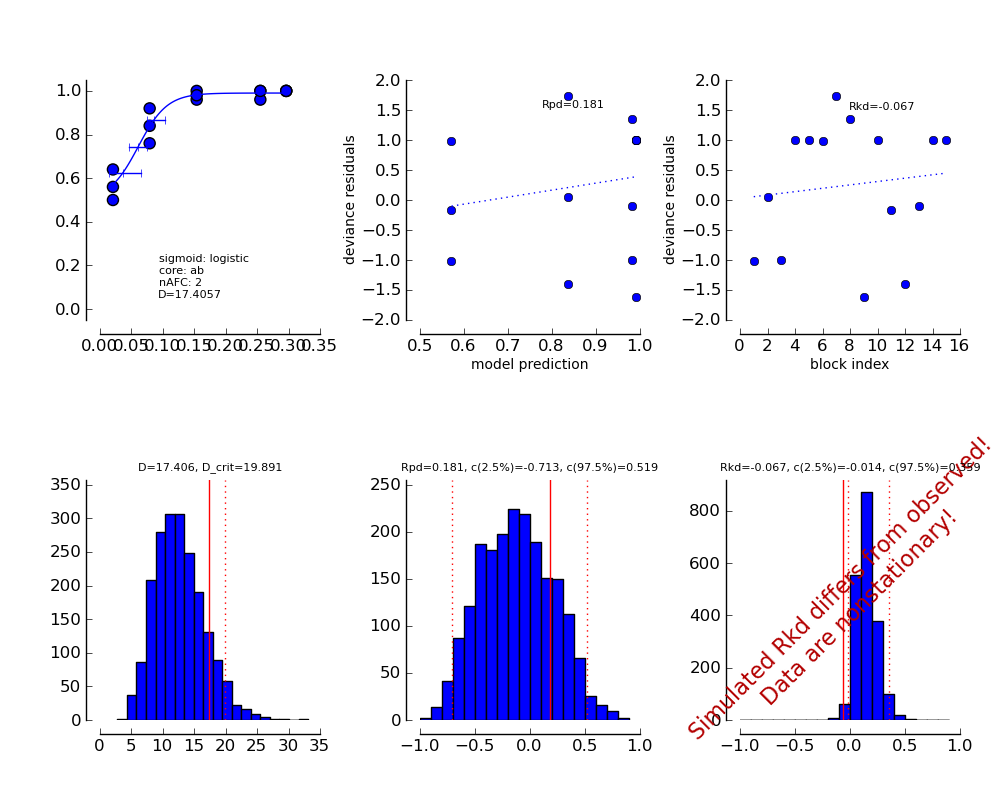
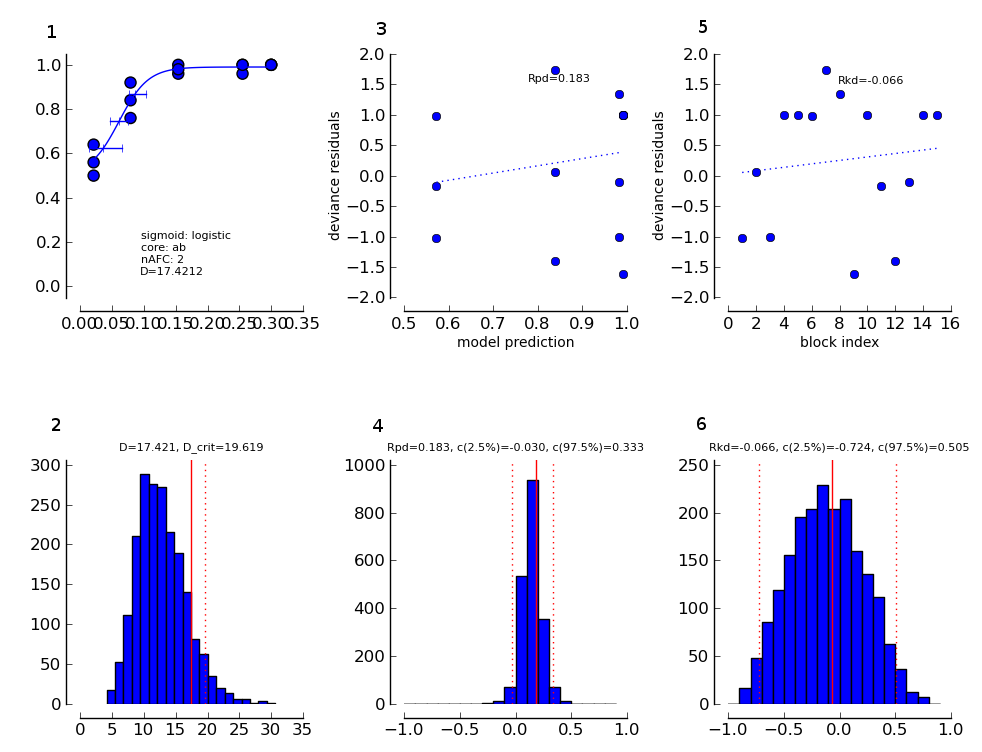
[DOC] bootstrap tutorial

diff --git a/doc-src/TUTORIAL_BOOTSTRAP.rst b/doc-src/TUTORIAL_BOOTSTRAP.rst
@@ -1,0 +1,252 @@
+============================
+A quick start to pypsignifit
+============================
+
+This document presents two example analyses of psychometric data using pypsignifit.
+:ref:`Example 1 <Example 1>` explains how to fit a psychometric function using constrained maximum
+likelihood as described in the papers by [Wichmann_and_Hill_2001a]_, [Wichmann_and_Hill_2001b]_. 
+:ref:`Example 2 <Example 2>` explains how to fit a psychometric function using a bayesian approach. Parts of 
+the ideas that are implemented here can be found in the paper by [Kuss_et_al_2005]_, the rest was new at the time of this writing.
+
+
+Getting started
+===============
+To get you started with pypsignifit, open a python interpreter and type the following:
+
+>>> import pypsignifit as psi
+>>> dir(psi)
+['BayesInference', 'BootstrapInference', 'ConvergenceMCMC', 'GoodnessOfFit', 'ParameterPlot', 'ThresholdPlot', '__builtins__', '__doc__', '__docformat__', '__file__', '__name__', '__package__', '__path__', '__test__', '__version__', 'interface', 'plotInfluential', 'plotMultiplePMFs', 'plotSensitivity', 'psignidata', 'psignierrors', 'psigniplot', 'pygibbsit', 'set_seed', 'show', 'subprocess', 'sys', 'version']
+
+With the first command you import the complete functionality of the python module pypsignifit to your current workspace. Dir( module name ) provides you with a list of functions and data types that come with pypsignifit.
+To get help and documentation about one of these functions, you can use the online python help by typing
+help ( function name ). For instance,
+
+>>> help ( psi.BayesInference )
+
+will show you the documentation of the BayesInference object class.
+
+
+Experimental scenario and data format
+=====================================
+The data that will be used in the following tutorials have been gathered in a 2-alternative forced-choice discrimination experiment. Observers had to discriminate between two stimultaneously presented stimuli. One of them  was the original (standard) and the other one was a comparison of five different stimulus intensities which were all larger than the standard. Different comparison intensities were presented in different experimental blocks (num_of_block = 5). One block contained 50 trials (num_of_trials = 50), 25 of which contained the original and the other 25 contained one of the five different stimulus intensities. Data for all stimulus intensities were repeatedly gathered in three sessions (num_of_sess = 3). Different experimental designs are described in detail in the section `specifying your experimental design <http://psignifit.sourceforge.net/MODELSPECIFICATION.html#specifiing-the-experimental-design>`_.
+
+We will now create our example data set for which we want to estimate a psychometric function. The data format should be a numpy array consisting of the following three columns: stimulus intensities, relative/absolute frequencies of correct (or 'yes') responses, number of observations per stimulus intensity:
+
+    >>> import numpy as np # numpy module required
+    >>> num_of_sess   = 3  # experimental parameters
+    >>> num_of_block  = 5
+    >>> num_of_trials = 50
+    >>> stimulus_intensities = [0.021, 0.079, 0.154, 0.255,  0.30] # stimulus levels
+    >>> percent_correct_1    = [0.5 ,  0.84,  0.96,  1.,   1.]     # percent correct sessions 1-3
+    >>> percent_correct_2    = [0.64,  0.92,  1.  ,  0.96, 1.]
+    >>> percent_correct_3    = [0.58,  0.76,  0.98,  1.,   1.]
+    >>> num_observations     = [num_of_trials] * num_of_block      # observations per block
+    >>> data_1 = np.c_[stimulus_intensities, percent_correct_1, num_observations]
+    >>> data_2 = np.c_[stimulus_intensities, percent_correct_2, num_observations]
+    >>> data_3 = np.c_[stimulus_intensities, percent_correct_3, num_observations]
+    >>> data_single_sessions = np.r_[ data_1, data_2, data_3 ]       # concatenate data from all sessions
+
+Numpy arrays data_1, data_2, data_3 summarize data from each session with each line representing a single experimental block. It is assumed that data are entered in the same sequence in which they have been acquired (often in ascending stimulus intensity as in classical signal detection tasks [Blackwell_1952]_). The last line of the code concatenates data from single sessions into a single numpy array. Again, the information about the sequence of acquisition is coded by the ordering of blocks (rows) and it will be used for the assessment of stability of performance in the :ref:`goodness of fit diagnostics <goodness_of_fit>`.
+
+
+.. _Example 1:
+
+Example 1: Constrained Maximum Likelihood and Bootstrap Inference
+=================================================================
+
+We will guide you through a recommended workflow, consisting of:
+
+* psychometric function fitting and parameter estimation
+* assessment of goodness of fit
+* sensitivity analysis for potential correction of confidence intervals (!! required for smaller datasets)
+
+
+Fitting
+-------
+Constrained maximum likelihood provides a way to estimate parameters from a psychometric function
+using maximum likelihood estimation while imposing constraints on some of the parameters.
+
+Parameters:
+
+* :math:`\gamma` is the guessing rate, or the lower asymptote
+* :math:`\lambda` is the lapsing rate, or the upper asymptote
+* :math:`a` and :math:`b` are parameters governing the shape of the sigmoid function and can be transformed into threshold and slope
+* :math:`F` is a sigmoid function. Here we try to fit the data to a logistic function which is the default setting. 
+
+For more information on different psychometric functions see `specifying the shape of the psychometric function <http://psignifit.sourceforge.net/MODELSPECIFICATION.html#specifiing-the-shape-of-the-psychometric-function>`_. 
+
+For a 2AFC task, the guessing rate is fixed at :math:`\gamma=0.5`. Thus, our model has three free parameters:
+:math:`a`, :math:`b`, and :math:`\lambda`. We want to keep :math:`a` and :math:`b` unconstrained. In order to constrain :math:`\lambda` the following considerations might be helpful:
+
+* For observers who exhibit a low lapse rate :math:`\lambda` can be approximated by Beta(2,20).
+* For observers who exhibit a high lapse rate (typically observed in animals) :math:`\lambda` can be approximated by Beta(5,20). For more information about prior selection you might read the `Introduction to Bayes Inference <http://psignifit.sourceforge.net/BAYESINTRO.html#>`_.
+
+
+
+>>> nafc = 2
+>>> constraints = ( 'unconstrained', 'unconstrained', 'Beta(2,20)' )
+
+
+Now we can fit the psychometric function by calling:
+
+>>> B_single_sessions = psi.BootstrapInference ( data_single_sessions, priors=constraints, nafc=nafc )
+
+Note that all inference functions assume a 2AFC task by default. B_single_sessions is a Bootstrap Inference Object,
+
+>>> print B_single_sessions
+< BootstrapInference object with 15 blocks and 0 samples >
+
+You can access estimates for all parameters by typing:
+
+>>> B_single_sessions.estimate
+array([ 0.06098965,  0.02276219,  0.00983442])
+
+
+*  :math:`a` (threshold) is approximately 0.0610
+*  :math:`b` (slope) is approximately 0.0228
+*  :math:`\lambda` (lapse rate) is approximately 0.0097
+
+You can also get the threshold and slope more directly:
+
+>>> B_single_sessions.getThres()
+0.060989653562317808
+
+>>> B_single_sessions.getSlope()
+10.983127014070762
+
+>>> B_single_sessions.getThres(0.5)
+0.060989653562317808
+
+>>> B_single_sessions.getThres(0.75)
+0.08599647282382343
+
+Please not that .getThres(), .getSlope() and .getCI() return by default their respective values at :math:`\Psi(x)=0.5`
+
+
+.. _goodness_of_fit:
+
+Goodness of fit assessment
+--------------------------
+How well do these parameters describe the data? The deviance is a measure that describes the goodness of fit for a model, based on the sum of the squares error metric. In our example, the deviance is approximately 17.4212.
+
+>>> B_single_sessions.deviance
+17.421204439061146
+
+Is this a high or a low value? In order to decide whether or not the fitted function is a proper representation of the data the following bootstrap analysis of the deviance will be performed:
+
+1. 2000 (default) sample data sets are generated using the fitted parameters as generating parameters and assuming that the data are binomially distributed
+2. for each of these data sets a new deviance value is calculated relative to our fitted psychometric function
+3. the sampled deviance values are sorted in order to determine 95% confidence intervalls (see goodness of fit output)
+
+>>> B_single_sessions.sample()
+
+>>> print B_single_sessions
+< BootstrapInference object with 15 blocks and 2000 samples >
+
+We see that B_single_sessions has changed: instead of 0 samples, we now have 2000 parametric bootstrap samples in the object. We can use these samples to assess the goodness of fit:
+
+>>> psi.GoodnessOfFit(B_single_sessions)
+
+In an interactive session, this should open a window that looks like the following. (In some
+cases, you may have to type psi.show() before you see the window).
+
+.. image:: gof_single_sessions.png
+
+1. Top left: displays the given data points and the fitted psychometric function. Thresholds and confidence intervals are plotted at three levels (default: 25%, 50% and 75% ). Mind that the y-axis starts at 0.5 (the guess rate in a 2AFC task), therefore the 50% threshold is located at :math:`\Psi(x) = .75`. :math:`D` signifies the deviance value.
+
+2. Bottom left: histogram of bootstrapped deviance values (default = 2000 samples). The 95% confidence limits are indicated by red dotted lines and the actually observed deviance is indicated by the solid red line. If the observed deviance is outside the 95% confidence limits that indicates a bad fit and you will receive a warning message.
+
+3. Top middle: deviance residuals are plotted as a function of the predicted correct response rate of the model (x-axis corresponds to y-axis in panel 1). This plot helps you to detect systematic deviations between the model and the data. The dotted line is the best linear fit that relates deviance residuals to the predicted correct response rate. Rpd gives the numerical value of that correlation. Note that the residuals are scaled to account for differences in the variability of a binomially distributed random variable (e.g. maximum variance at p=0.5).
+
+4. Bottom middle: histogram of bootstrapped correlation coefficients for the correlation between residuals and performance level (same logic applies as in panel 2). Dotted lines denote 95% intervals of the sampled correlation coefficients, the solid line marks the observed correlation between model prediction and deviance residuals.
+
+5. Top right: deviance residuals are plotted as a function of block index i.e. the sequence in which the data were acquired (WARNING: this graph can be properly interpreted only when stimulus intensities were fixed in separate blocks). If the observer was learning, the fitted linear correlation between residuals and block index should be positive.
+
+6. Bottom right: histrogram of bootstrapped correlation coefficients for the correlation between deviance residuals and block index (same logic applies as in panel 2 and 4).
+
+Sensitivity Analysis
+--------------------
+
+As noted by [Wichmann_and_Hill_2001b]_, bootstrap based confidence intervals might be too small. That would mean that a 95% confidence interval would contain the true parameter in less than 95% of the cases. It also means that you are more likely to make a Type I or alpha error, which is that you are more likely to deem two parameters to significantly differ from each other when in fact they don't.
+
+We suggest to perform a Sensitivity Analysis on the BootstrapInference object. If necessary, confidence intervals will be expanded following the sensitivity analysis to compensate for the underestimation. If you compare the estimated confidence intervals before and after the analysis you will get an idea how stable your confidence interval estimates are:
+
+>>> B_single_sessions.getCI(0.5)
+array([ 0.04655731,  0.07565797])
+>>> plotSensitivity(B)
+>>> B_single_sessions.getCI(0.5)
+array([-5.35198839,  0.07944721])
+
+As you see in our example the second call to the getCI() method returns considerably wider confidence intervals. These confidence intervals have been enlarged to provide a more realistic coverage. In addition, the plotSensitivity() function should open a plot window showing something like this:
+
+.. image:: sens_single_sessions.png
+
+This shows the joint probability distribution of the parameters :math:`a` and :math:`b` of the model. The dark shading indicates the density of this joint distribution as estimated from the bootstrap parameters. The red dot in the center of the cloud of points is the parameter estimate that was determined by maximum likelihood. The red diamonds that are connected by red lines are the points at which an additional bootstrap sample has been drawn. The expanded bootstrap confidence intervals correspond to the widest confidence intervals from all points that are marked in red (i.e. the maximum likelihood estimate and the points marked by the red diamonds).
+
+
+Parameter plots
+---------------
+
+We can also get a graphical representation of the fitted parameters:
+
+>>> psi.ParameterPlot(B)
+
+this should open a graph similar to the one depicted below (again, you might have to type psi.show() to open the plot window). Please note that for illustrative purposes this and the following plot are generated with the B_single_sessions object before the Sensitivity Analysis.
+
+.. image:: paramplot_single_sessions.png
+
+Each of these plots shows the estimated density of one of the model parameters. In addition,
+the estimated parameter is marked by a solid vertical line and the 95% confidence interval is
+marked by dotted vertical lines. The confidence interval limits and the estimates are written
+on top of the graph.
+
+In some cases, we may not directly be interested in the parameters of the model. Instead, we
+ask for "thresholds", that is predefined performance levels of the sigmoid :math:`F`. We can get a plot
+of such thresholds and the associated confidence intervals using the function
+
+>>> psi.ThresholdPlot(B)
+
+The plots show estimated densities for thresholds at  looks essentially the same as for the ParameterPlot only that this time, the threshold(s)
+of the model are displayed.
+
+.. image:: threshplot_single_sessions.png
+
+
+Reparameterizing the model
+--------------------------
+
+Psignifit3.0 reformulates the function :math:`F ( x | a,b )` by means of two separate functions :math:`\mathbb{R} \to \mathbb{R}` and :math:`g: \mathbb{R}^3\to\mathbb{R}`. We can think of :math:`f` as the nonlinear part of the psychometric function, while :math:`g` is in most cases linear in x. Often g can be changed without seriously altering the possible model shapes. In pypsignifit :math:`f` is called the 'sigmoid' and :math:`g` is called the 'core'. Using different
+combinations of sigmoid and core allows a high flexibility of model fitting. For instance
+Kuss, et al (2005) used a parameterization in terms of the 'midpoint' :math:`m` of the sigmoid and the
+'width' :math:`w`. Here width is defined as the distance :math:`F^{-1} ( 1-\alpha ) - F^{-1} ( \alpha )`. To perform BootstrapInference for this model we can proceed as follows
+
+>>> Bmw = psi.BootstrapInference ( data, sample=2000, priors=constraints, core="mw0.1", nafc=nafc )
+>>> Bmw.estimate
+array([ 2.75176858,  6.40375494,  0.01555636])
+>>> Bmw.deviance
+8.0713313674704921
+>>> Bmw.getThres()
+2.7517685843037913
+>>> Bmw.cuts
+(0.25, 0.5, 0.75)
+>>> Bmw.getCI(1)
+array([ 1.4842732 ,  4.06407509])
+
+Note that this model has the same deviance as the model fitted above. Also the obtained thresholds are the same. However, as the parameterization is different, the actual fitted parameter values are different. More details on sigmoids and cores and how they can be used to specify models can be found in the section about _`Specification of Models for Psychometric functions`
+
+Instead of using  :math:`a` and :math:`b`, we can `reparameterize the model <http://psignifit.sourceforge.net/REPARAMETERIZE.html>`_.
+E.g. Kuss, et al (2005) used a parameterization in terms of the 'midpoint' :math:`m` of the sigmoid and the 'width' :math:`w` as described by.
+
+References
+==========
+.. [Blackwell_1952] Blackwell, H. R.(1952). Studies of psychophysical methods for measuring visual thresholds. Journal of the Optical Society of America, 42, 606-616.
+.. [Gelman_1996] Gelman A (1996): Inference and monitoring convergence. In [Gilks_et_al_1996]_.
+.. [Geweke_1992] Geweke, J (1992): Evaluating the accuracy of sampling-based approaches to calculating posterior moments. In Bernardo et al., pp 169-193.
+.. [Gilks_et_al_1996] Gilks, WR, Richardson, S, Spiegelhalter, DJ (Hrsg,1996): Markov chain Monte Carlo in practice. London: Chapman & Hall.
+.. [Hill_2001] Hill, NJ (2001): Testing Hypotheses About Psychometric Functions. PhD Thesis, Oxford.
+.. [Kuss_et_al_2005] Kuss, M, Jäkel, F, Wichmann, FA (2005): Bayesian inference for psychometric functions. J Vis, 5, 478-492.
+.. [Raftery_and_Lewis_1996] Raftery & Lewis (1996): Implementing MCMC. In [Gilks_et_al_1996]_.
+.. [Wichmann_and_Hill_2001a] Wichmann, FA, Hill, NJ (2001a): The psychometric function: I. Fitting, sampling, and goodness of fit. Perc Psychophys, 63(8), 1293-1313.
+.. [Wichmann_and_Hill_2001b] Wichmann, FA, Hill, NJ (2001b): The psychometric function: II. Bootstrap-based confidence intervals and sampling. Perc Psychophys, 63(8), 1314-1329.
+
+
